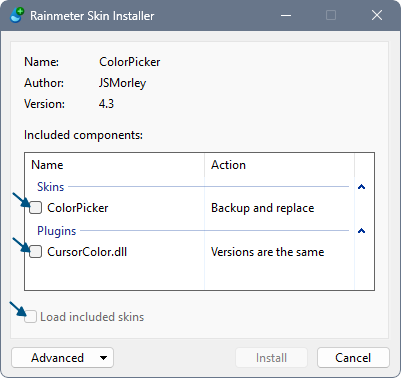
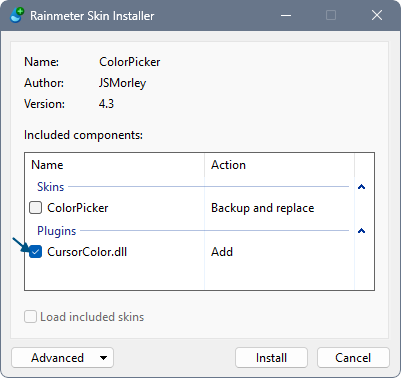
Update the manual Vault plugin example

diff --git a/source/manual/distributing-skins/vault-folder.html b/source/manual/distributing-skins/vault-folder.html
@@ -29,13 +29,13 @@ title: '@Vault Folder'
 
 <p>No doubt you have installed .rmskins in the past that had 3rd-party plugins in them. While the single appropriate 32bit or 64bit version of the plugin .dll file was installed in your Rainmeter, you might want to store those plugins in @Vault for future use. That is easy to do.</p>
 
-<p>Simply find and install the .rmskin again. However, there is no need to actually "install" anything. The plugin or the skin itself. Simply uncheck all the boxes in the Skin Installer dialog, for the skin name(s), the plugin name(s) and "Load included skins".</p>
+<p>Simply find and install the .rmskin again. However, there is no need to actually "install" anything. The plugin or the skin itself. Simply uncheck all the boxes in the Skin Installer dialog, for the skin name(s) and "Load included skins". Check the box for the plugin.</p>
 
 <div class="exampleprev">
 	<a href="!img/@vault-folder/@vault-folder1.png" data-fancybox><img src="!img/@vault-folder/@vault-folder1.png"></a>
 </div>
 
-<p>When you click on the Install button in the dialog, nothing will actually be installed, but the plugin .dll files will be properly stored in the @Vault\Plugins folder. Do this with any .rmskins you have created or downloaded in the past, and you will have a central, reliable, current, storehouse of all the 3rd-party plugins you may want to use in the future.<p>
+<p>When you click on the Install button in the dialog, the plugin .dll files will be properly stored in the @Vault\Plugins folder. Do this with any .rmskins you have created or downloaded in the past, and you will have a central, reliable, current, storehouse of all the 3rd-party plugins you may want to use in the future.<p>
 
 <h2 id="VaultOther">Storing other resources</h2>
 
